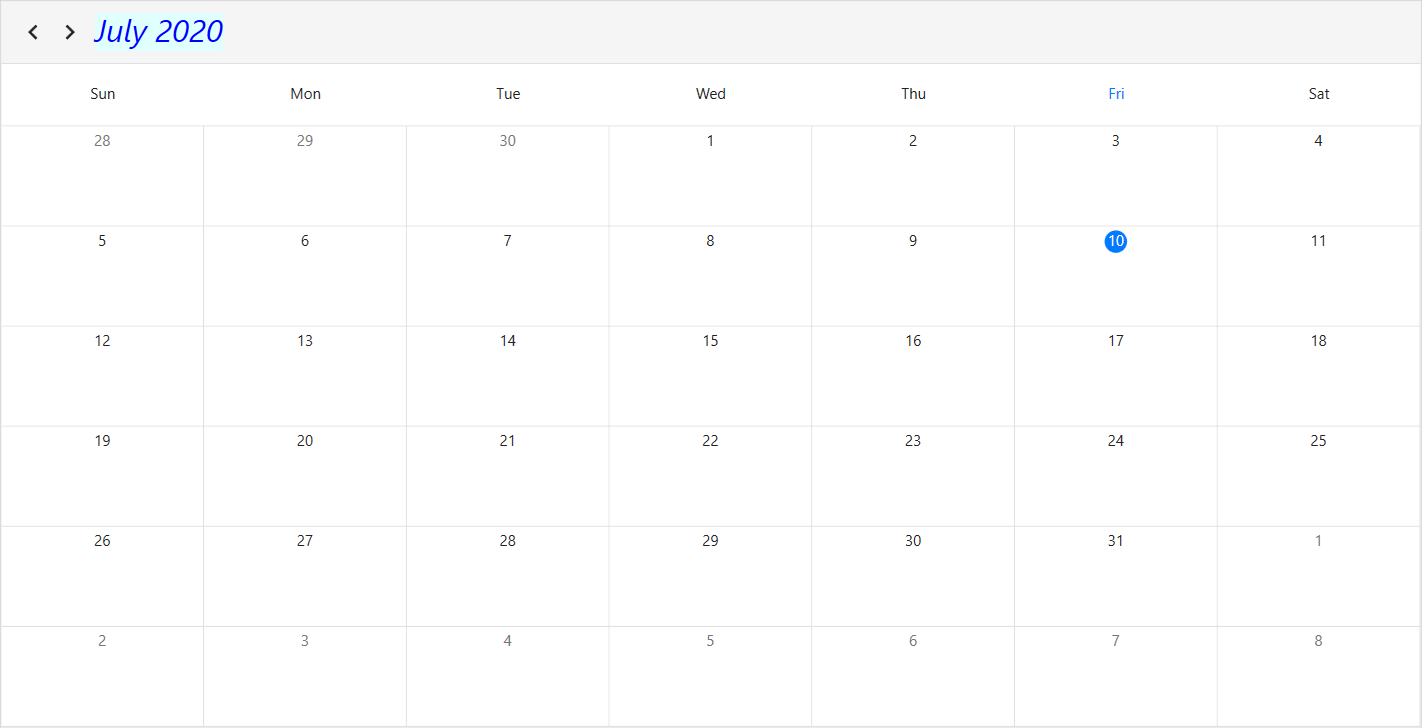
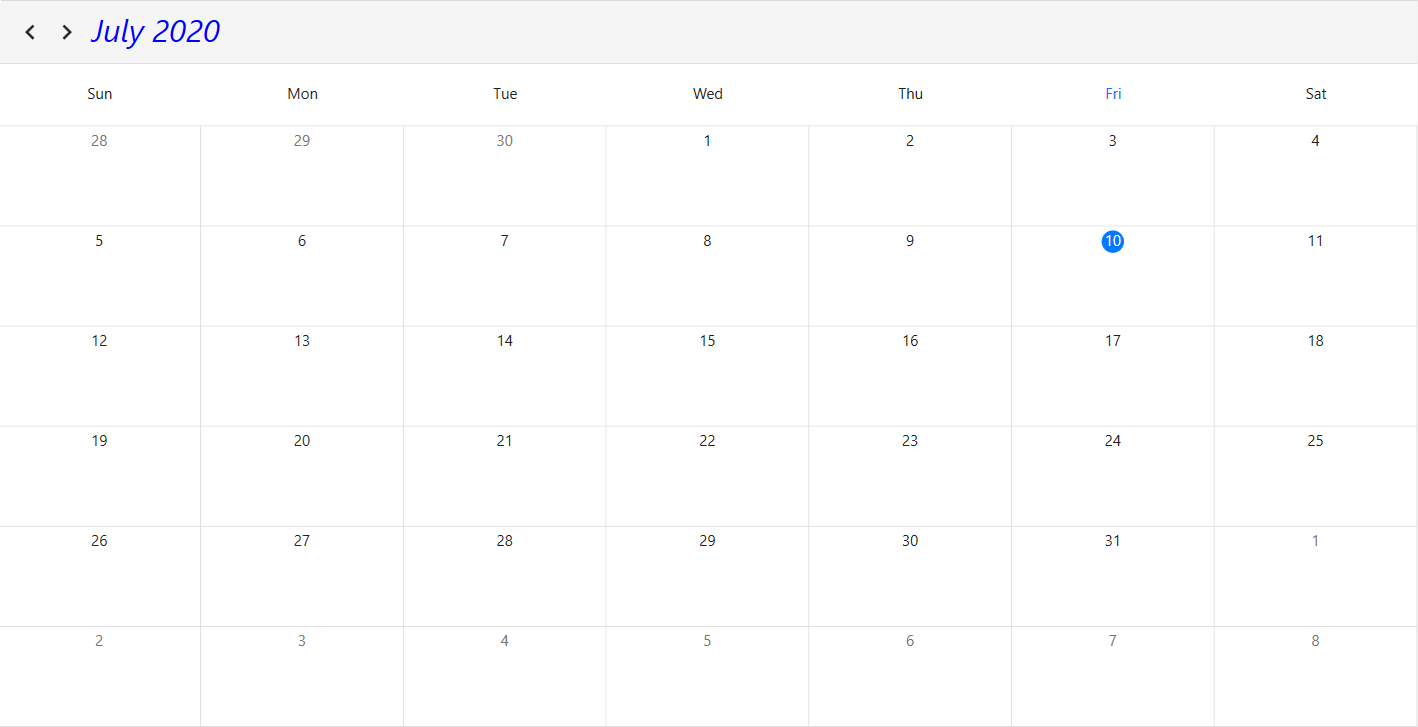
modified header template image

diff --git a/wpf/Scheduler/Schedule-Header.md b/wpf/Scheduler/Schedule-Header.md
@@ -66,18 +66,13 @@ You can customize header appearance of scheduler by using [HeaderTemplate](https
 
 {% tabs %}
 {% highlight xaml %}
-<syncfusion:SfScheduler x:Name="Schedule" 
-                        ViewType="Month">
+<syncfusion:SfScheduler x:Name="Schedule">
     <syncfusion:SfScheduler.HeaderTemplate>
         <DataTemplate >
-            <Grid Background="LightCyan" 
-                    HorizontalAlignment="Stretch" 
-                    VerticalAlignment="Stretch">
                 <TextBlock FontStyle="Italic"
                            Foreground="Blue"
                            FontSize="25"
                            Text="{Binding}"/>
-            </Grid>
         </DataTemplate>
     </syncfusion:SfScheduler.HeaderTemplate>
 </syncfusion:SfScheduler>
